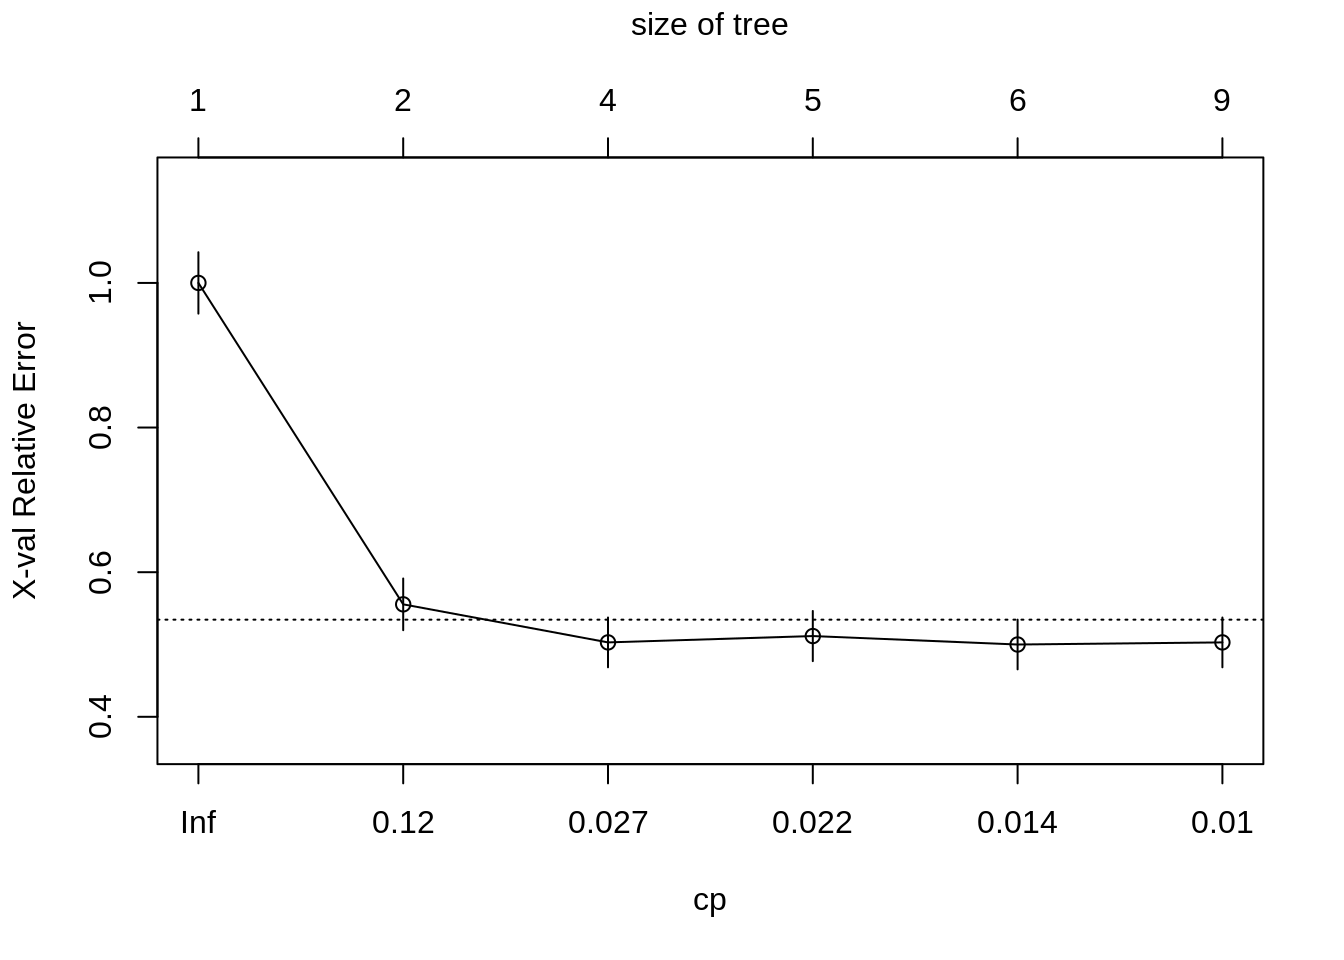
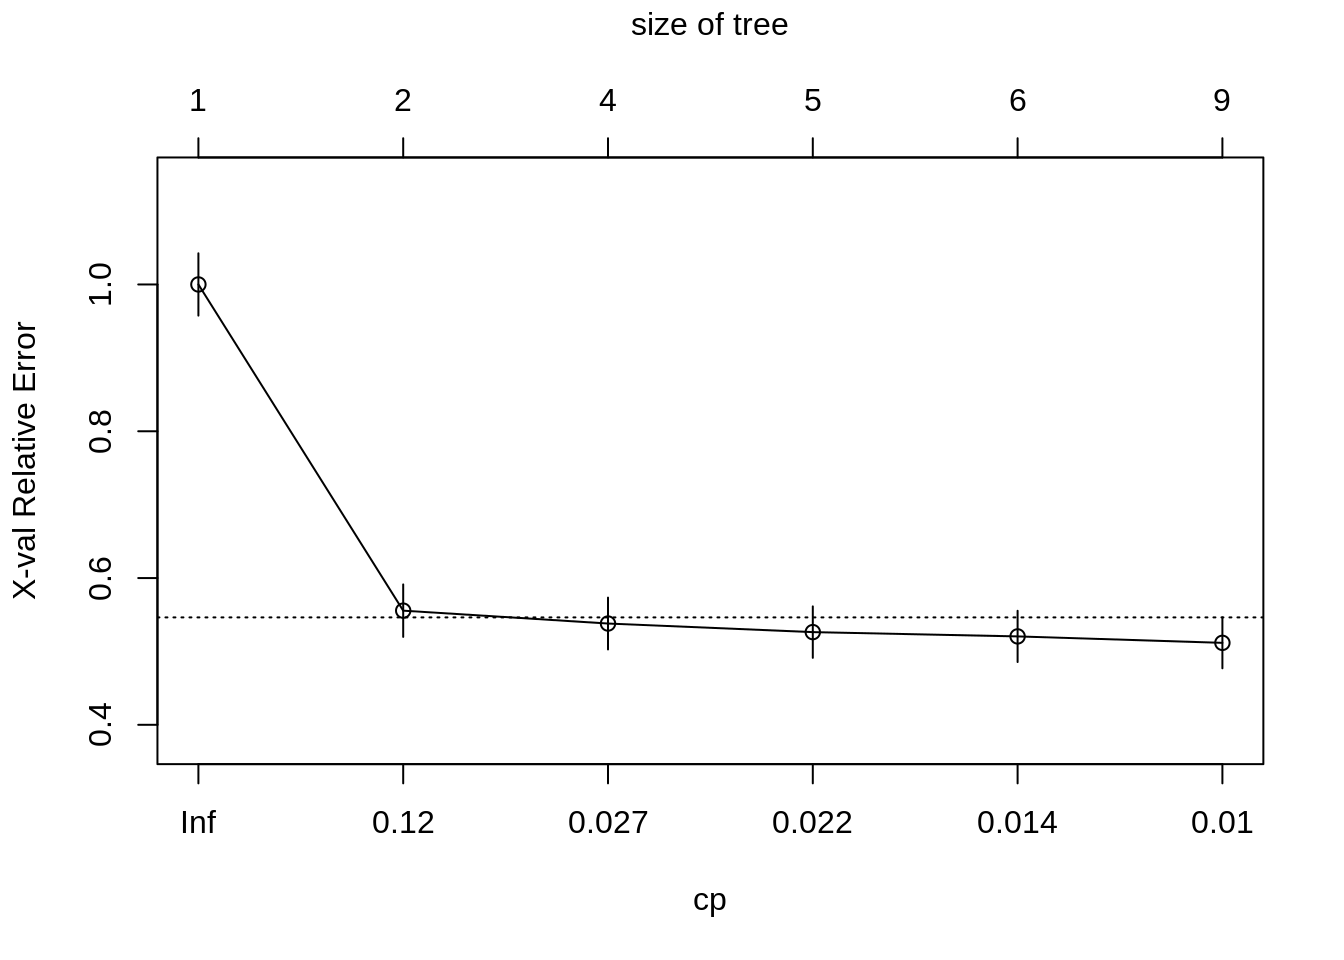
Deploy lebebr01/stat_thinking to github.com/lebebr01/stat_thinking.git:master

diff --git a/docs/classification.html b/docs/classification.html
@@ -324,10 +324,10 @@ titanic &lt;-<span class="st"> </span><span class="kw">bind_rows</span>(titanic_
 ##         CP nsplit rel error  xerror     xstd
 ## 1 0.444444      0   1.00000 1.00000 0.042446
 ## 2 0.030702      1   0.55556 0.55556 0.035750
-## 3 0.023392      3   0.49415 0.50292 0.034448
-## 4 0.020468      4   0.47076 0.51170 0.034675
-## 5 0.010234      5   0.45029 0.50000 0.034372
-## 6 0.010000      8   0.41813 0.50292 0.034448</code></pre>
+## 3 0.023392      3   0.49415 0.53801 0.035331
+## 4 0.020468      4   0.47076 0.52632 0.035043
+## 5 0.010234      5   0.45029 0.52047 0.034897
+## 6 0.010000      8   0.41813 0.51170 0.034675</code></pre>
 <div class="sourceCode"><pre class="sourceCode r"><code class="sourceCode r"><span class="kw">plotcp</span>(class_tree)</code></pre></div>
 <p><img src="05-classification_files/figure-html/unnamed-chunk-6-1.png" width="672" /></p>
 <div class="sourceCode"><pre class="sourceCode r"><code class="sourceCode r">prune_class_tree &lt;-<span class="st"> </span><span class="kw">prune</span>(class_tree, <span class="dt">cp =</span> .<span class="dv">02</span>)

diff --git a/docs/05-classification.md b/docs/05-classification.md
@@ -249,10 +249,10 @@ printcp(class_tree)
 ##         CP nsplit rel error  xerror     xstd
 ## 1 0.444444      0   1.00000 1.00000 0.042446
 ## 2 0.030702      1   0.55556 0.55556 0.035750
-## 3 0.023392      3   0.49415 0.50292 0.034448
-## 4 0.020468      4   0.47076 0.51170 0.034675
-## 5 0.010234      5   0.45029 0.50000 0.034372
-## 6 0.010000      8   0.41813 0.50292 0.034448
+## 3 0.023392      3   0.49415 0.53801 0.035331
+## 4 0.020468      4   0.47076 0.52632 0.035043
+## 5 0.010234      5   0.45029 0.52047 0.034897
+## 6 0.010000      8   0.41813 0.51170 0.034675
 ```
 
 ```r
